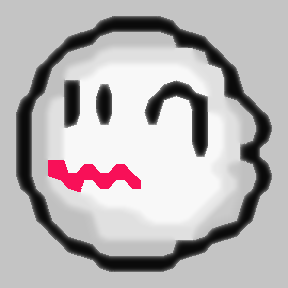
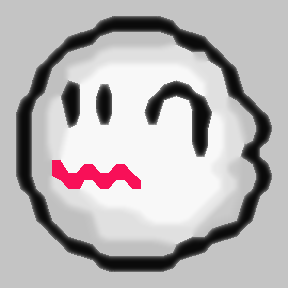
smooth & border

diff --git a/genCtrlPoints.m b/genCtrlPoints.m
@@ -20,16 +20,16 @@ function ctrlPoints = genCtrlPoints(blocks, i, j)
     elseif (blocks(1, 1, 7) && blocks(1, 2, 7) && ~blocks(1, 1, 5)) % 2-vertical-side
         ctrlPoints = [1.0 (i+1) (j+1) 0.0 0.0 7];
     elseif (blocks(1, 1, 7) && ~blocks(1, 2, 7)) % left-vertical-side
-        ctrlPoints = [1.0 (i+1) (j+1) 0.0 0.0 8];
+        ctrlPoints = [1.0 (i+1) (j+1.25) 0.0 0.0 8];
     elseif (~blocks(1, 1, 7) && blocks(1, 2, 7)) % right-vertical-side
-        ctrlPoints = [1.0 (i+1) (j+1) 0.0 0.0 9];
+        ctrlPoints = [1.0 (i+1) (j+0.75) 0.0 0.0 9];
         
     elseif (blocks(1, 1, 5) & blocks(2, 1, 5) & ~blocks(1, 1, 7)) % 2-horizontal-side
         ctrlPoints = [1.0 (i+1) (j+1) 0.0 0.0 10];
     elseif (blocks(1, 1, 5) & ~blocks(2, 1, 5)) % top-horizontal-side
-        ctrlPoints = [1.0 (i+1) (j+1) 0.0 0.0 11];
+        ctrlPoints = [1.0 (i+1.25) (j+1) 0.0 0.0 11];
     elseif (~blocks(1, 1, 5) & blocks(2, 1, 5)) % bot-horizontal-side
-        ctrlPoints = [1.0 (i+1) (j+1) 0.0 0.0 12];
+        ctrlPoints = [1.0 (i+0.75) (j+1) 0.0 0.0 12];
 
     else
         ctrlPoints = [5.0 0.0 0.0 0.0 0.0 0];

diff --git a/final_project.m b/final_project.m
@@ -13,7 +13,7 @@ clear;
 mul = 16; % multiple times
 
 % load the input and extend it
-input = imread('testcase/test9.png');
+input = imread('testcase/test10.png');
 input = extend(input);
 
 % connection of input pixels about their neighbors
@@ -36,6 +36,6 @@ supImg = restrict(supImg, mul);
 smImg = restrict(smImg, mul);
 
 % output the result
-imwrite(resultImg, 'output/output9.png');
-imwrite(supImg, 'output/sup9.png');
-imwrite(smImg, 'output/sm9.png');
+imwrite(resultImg, 'output/output10.png');
+imwrite(supImg, 'output/sup10.png');
+imwrite(smImg, 'output/sm10.png');

diff --git a/smooth.m b/smooth.m
@@ -5,7 +5,7 @@ function [outputImg, smImg] = smooth(inputImg)
 outputImg = inputImg;
 
 for t = 1:10 % smooth width
-    
+    t
     for i = 1:r
         for j = 1:l
             yuv(i, j, :) = rgb2yuv(outputImg(i, j, :));
